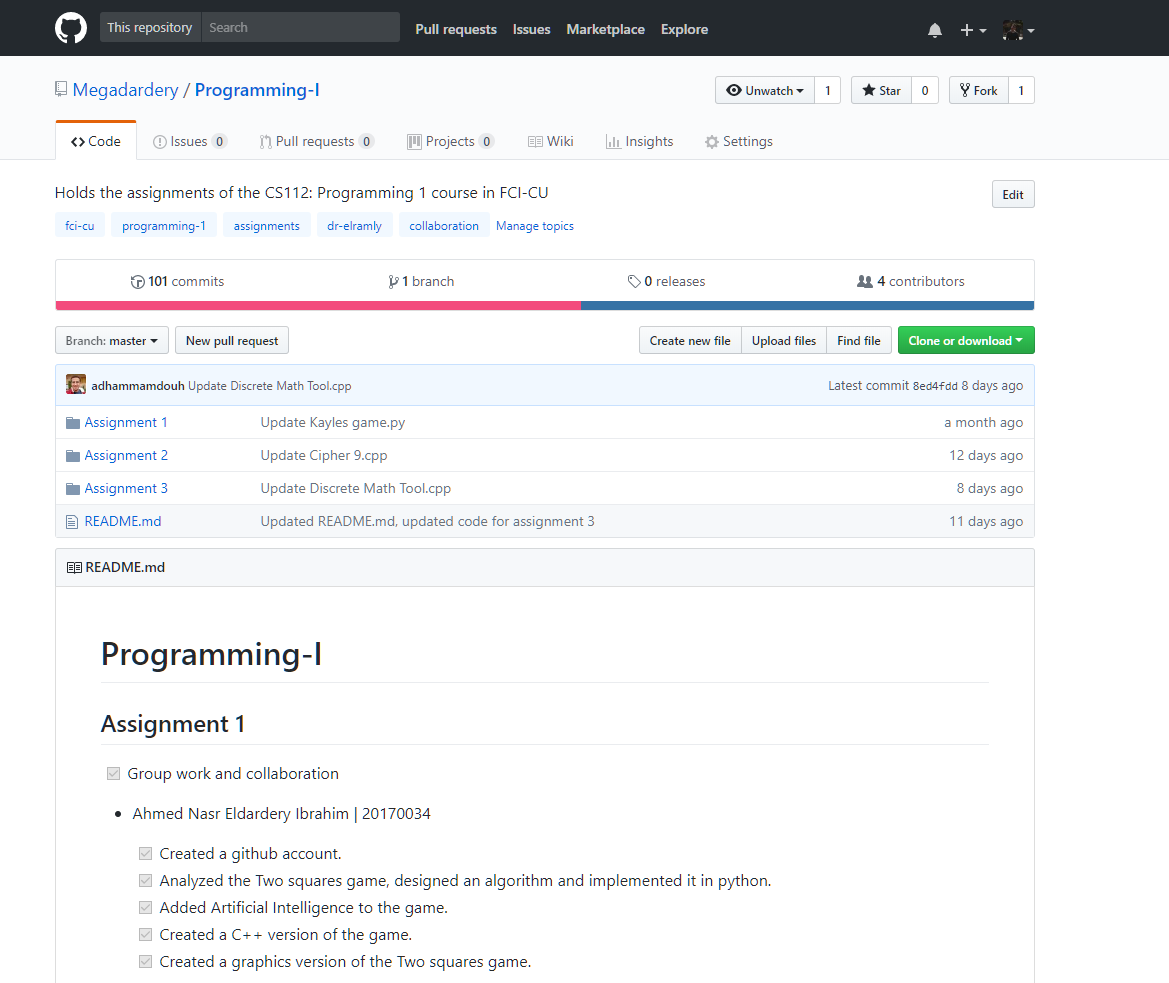
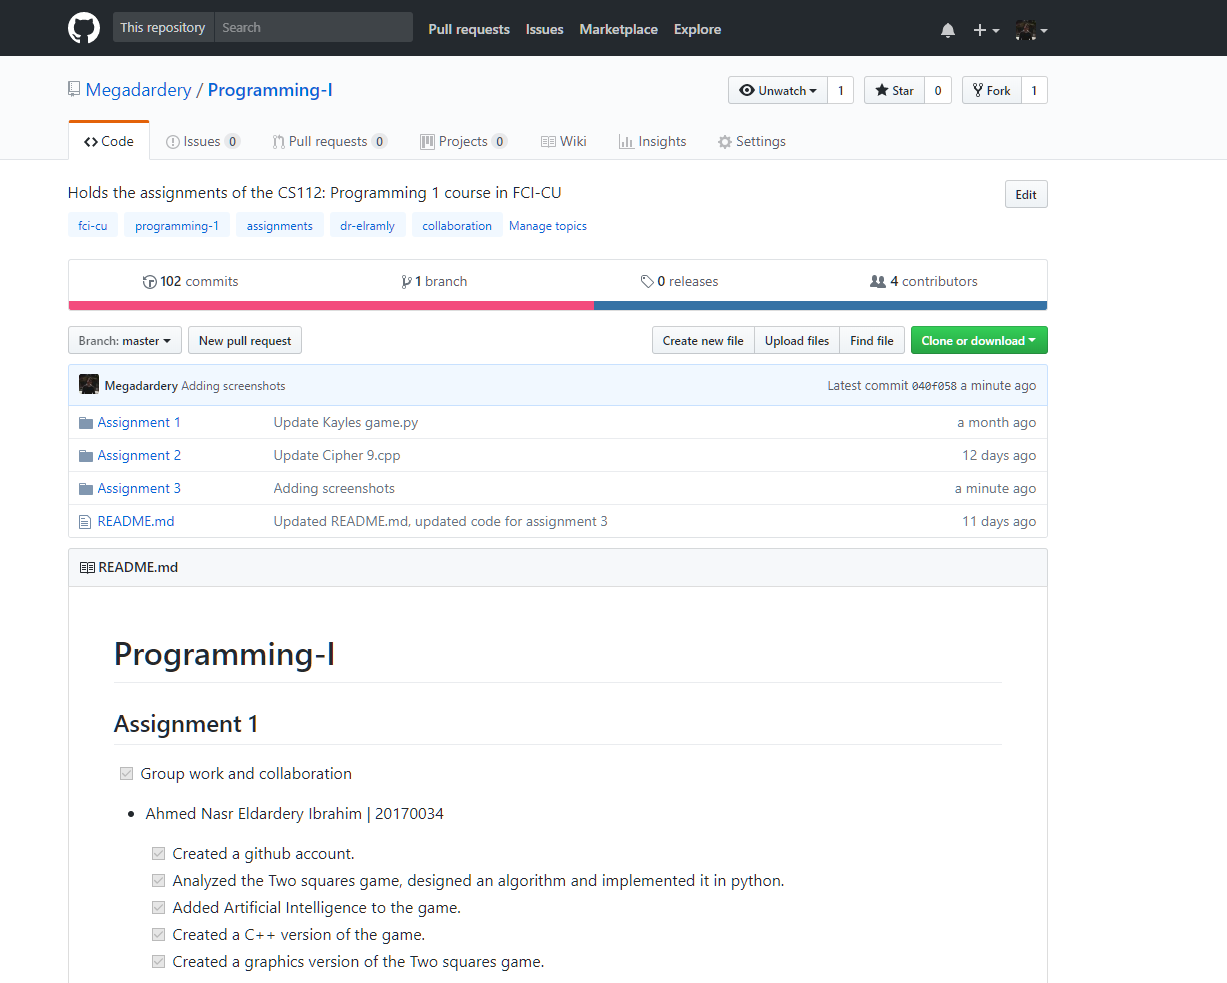
uploading more screenshots

diff --git a/README.md b/README.md
@@ -1,7 +1,7 @@
 # Programming-I
 ## Assignment 1
 
-- [x] Group work and collaboration
+ - [x] Group work and collaboration
 
 - Ahmed Nasr Eldardery Ibrahim | 20170034
   - [x] Created a github account.
@@ -26,9 +26,9 @@
 
 ## Assignment 2
 
-- [x] Correct implementation of the group problem (chap 3, page 176, problem 7)
-- [x] Done a cipher program that implements all ten algorithms.
-- [x] Group collaboration and following coding style.
+ - [x] Correct implementation of the group problem (chap 3, page 176, problem 7)
+ - [x] Done a cipher program that implements all ten algorithms.
+ - [x] Group collaboration and following coding style.
 
 
 - Ahmed Nasr Eldardery Ibrahim | 20170034
@@ -48,14 +48,14 @@
   
 ## Assignment 3
 
-- [x] Allow users to enter data sets and store each one in a separate file.
-- [ ] Handled empty, invalid and wrong data-type files.
-- [ ] Extend the program to work with 3 sets for all the given functions.
-- [ ] Created the function decomposition diagram.
+ - [x] Allow users to enter data sets and store each one in a separate file.
+ - [ ] Handled empty, invalid and wrong data-type files.
+ - [ ] Extend the program to work with 3 sets for all the given functions.
+ - [ ] Created the function decomposition diagram.
 
 - Ahmed Nasr Eldardery Ibrahim | 20170034
   - [x] used Solo Learn app and finished up to functions
-  - [ ] Posted a question and answered one on stackoverflow.com
+  - [x] Posted a question and answered one on stackoverflow.com
   - Individual tasks
     - [x] Union of A, B
     - [x] Intersection of A, B
@@ -70,9 +70,9 @@
     - [x] Check if a set is a proper subset of other
 
 - Belal Hamdy Ezzat | 20170077
-  - [ ] used Solo Learn app and finished up to functions
-  - [ ] Posted a question and answered one on stackoverflow.com
+  - [x] used Solo Learn app and finished up to functions
+  - [x] Posted a question and answered one on stackoverflow.com
   - Individual tasks
-    - [ ] B - A
-    - [ ] Cartesian product of A and B
-    - [ ] Power set of A
+    - [x] B - A
+    - [x] Cartesian product of A and B
+    - [x] Power set of A
